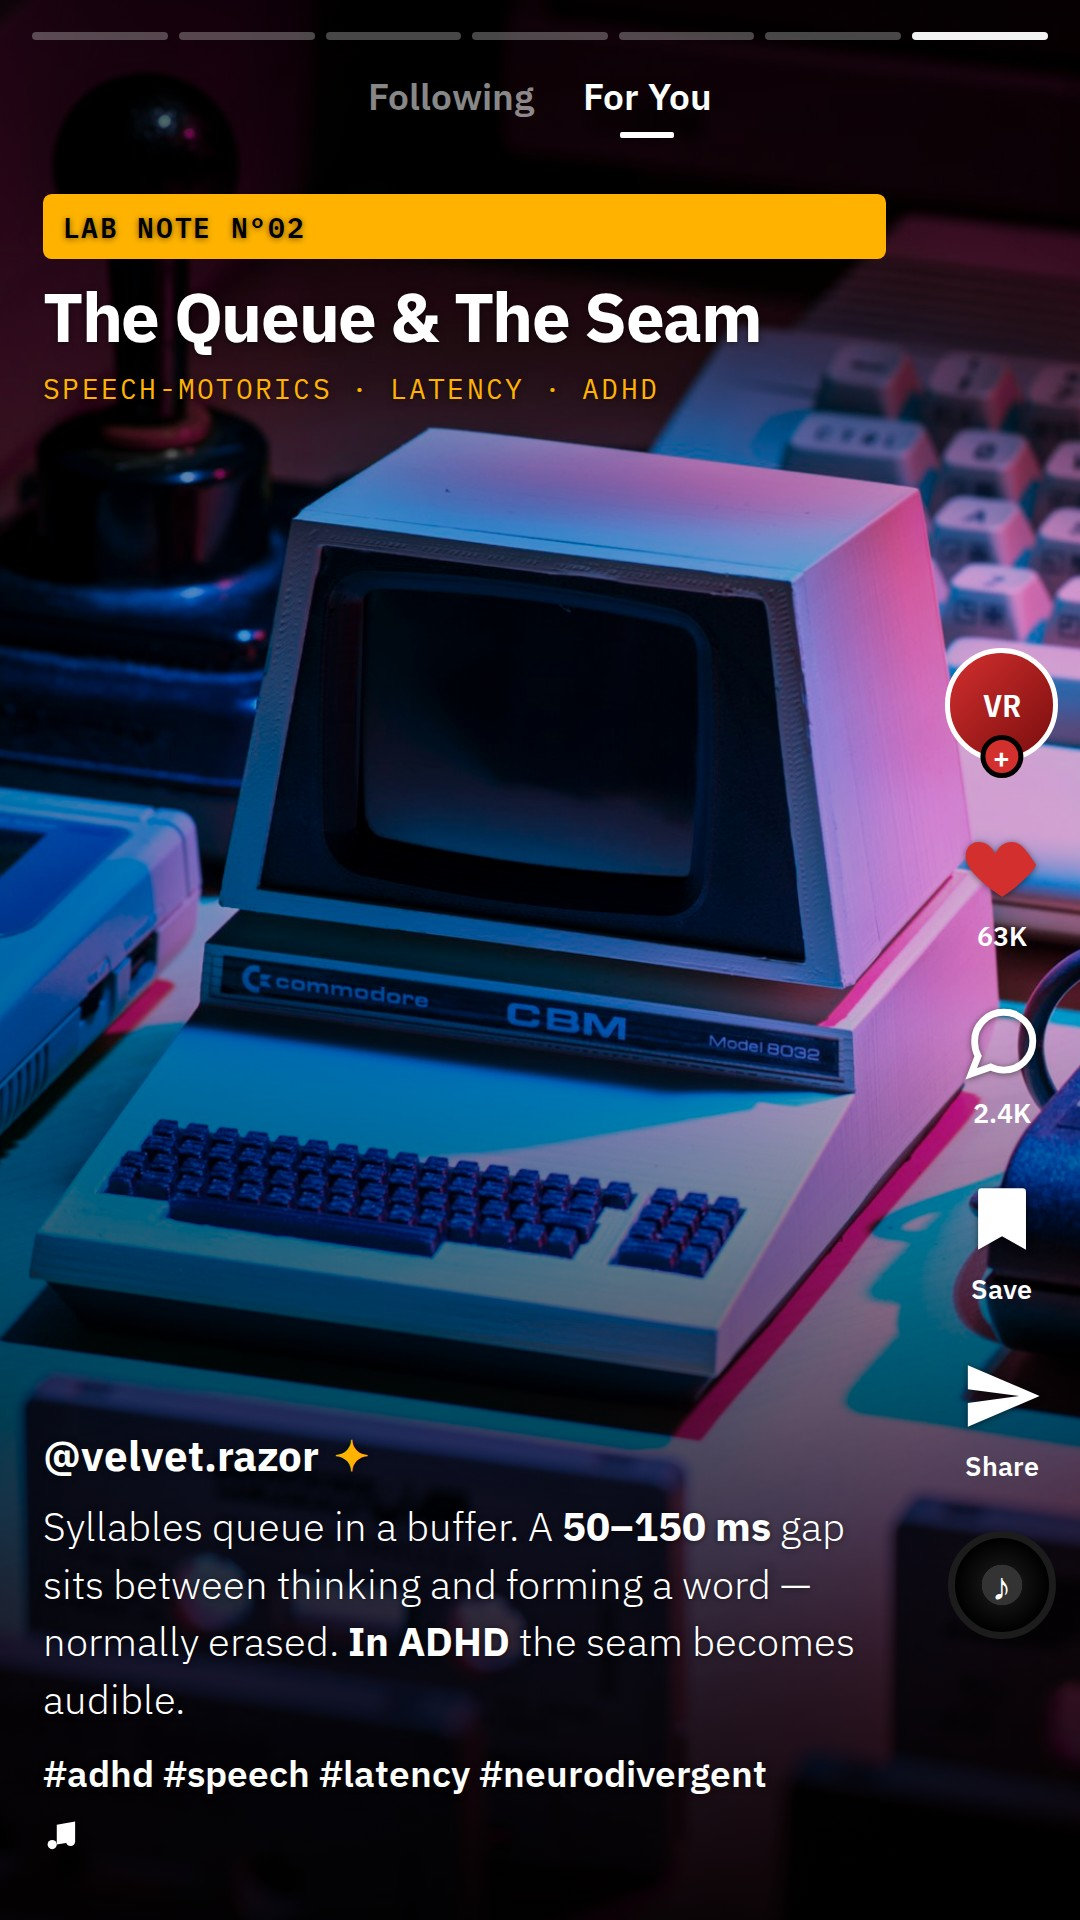
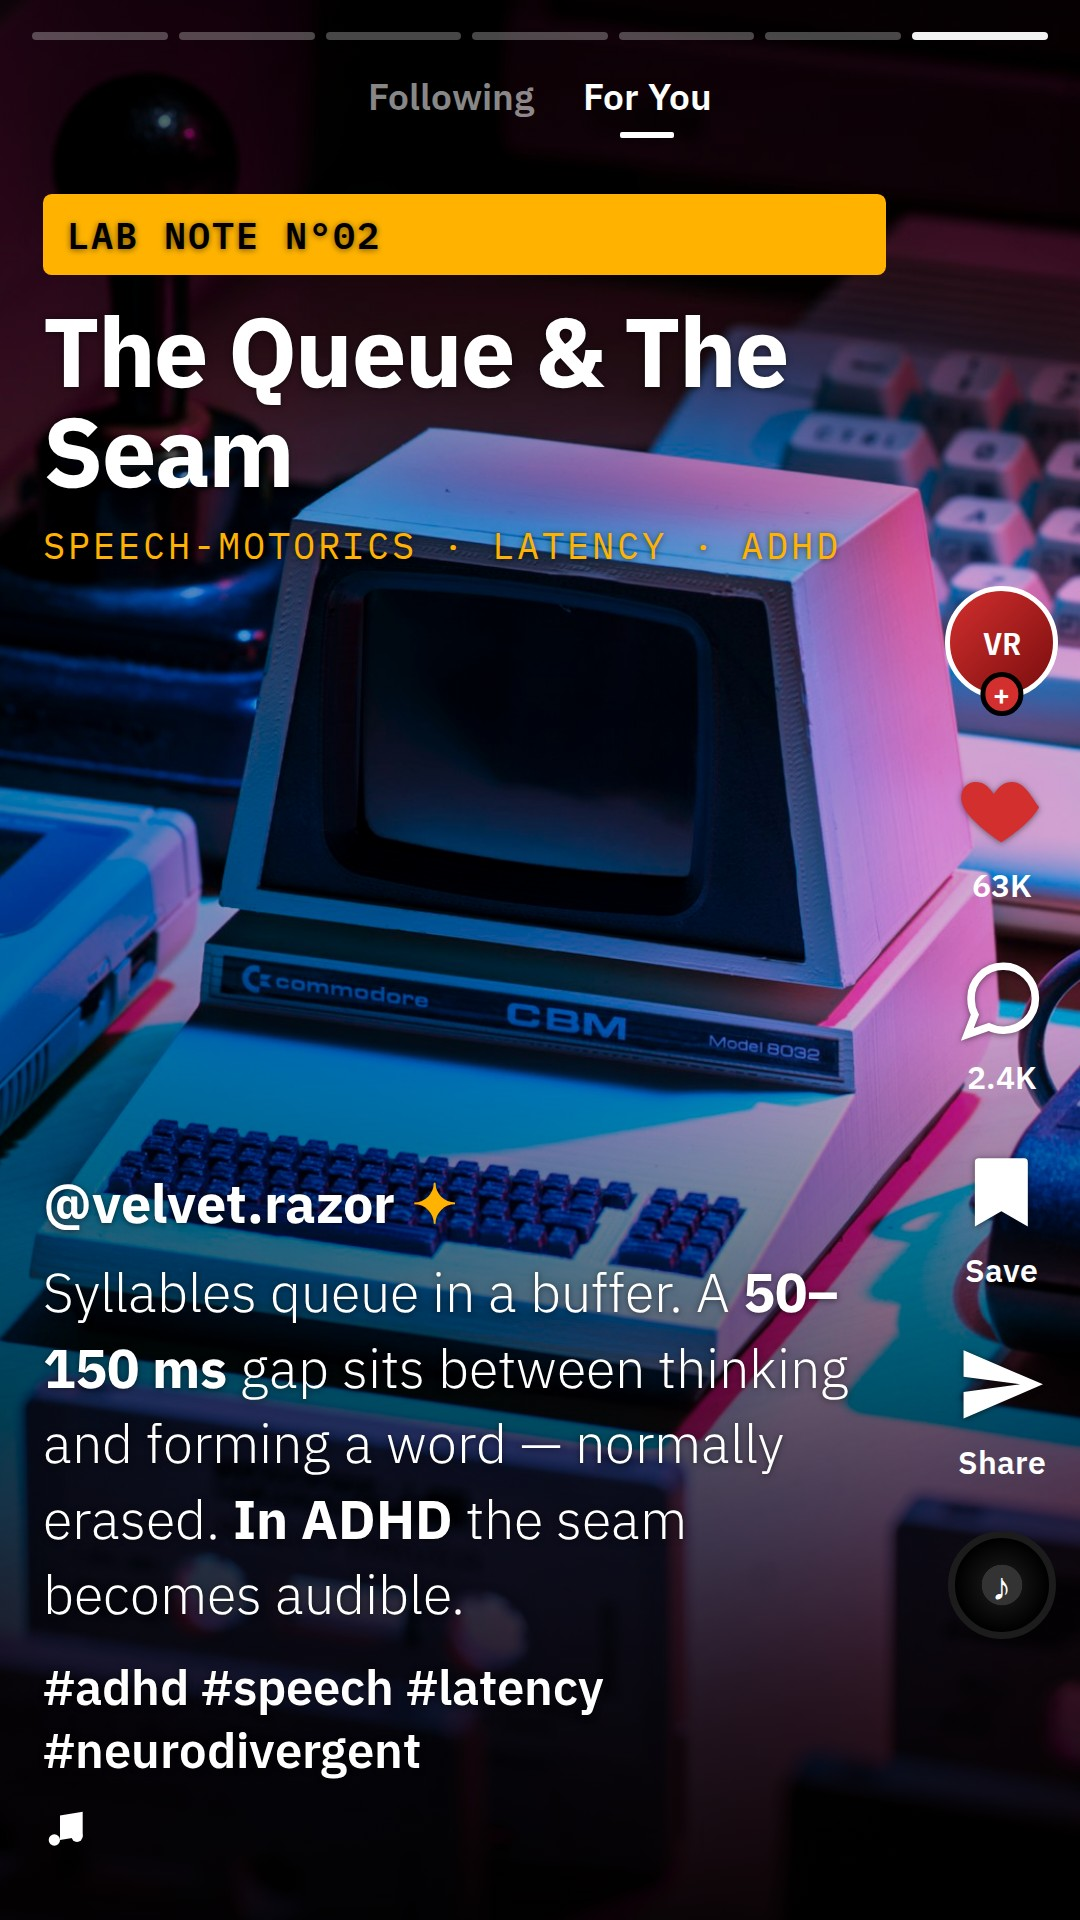
Make photo full-bleed background and enlarge slide typography
Remove the desktop phone-card chrome (border-radius/shadow/440px frame) so
each slide fills the viewport with the photo as a true full-screen
background, and increase the caption type scale (title, desc, tags, etc.)
so text reads large in both the browser and the 1080x1920 JPEG export.

Claude-Session: https://claude.ai/code/session_017Q2y2vkwAyKhxds5gc3Pqh

diff --git a/index.html b/index.html
@@ -40,31 +40,17 @@
             overflow: hidden;
         }
 
-        /* Phone frame on desktop; full screen on mobile */
+        /* Full-bleed: the photo IS the background. Portrait 9:16 fills the screen
+           height and is centred; no card frame, no shadow. */
         .phone {
             position: relative;
-            width: var(--frame-w);
-            height: min(95vh, calc(var(--frame-w) * 16 / 9));
-            max-height: 95vh;
+            height: 100dvh;
             aspect-ratio: 9 / 16;
+            max-width: 100vw;
             background: #000;
             overflow: hidden;
-            border-radius: 28px;
-            box-shadow: 0 0 0 10px #161616, 0 30px 80px rgba(0,0,0,0.8);
-            /* Size container: typography uses cqw so it scales identically in the
-               440px desktop frame and the 1080px JPEG export. */
+            /* Size container: typography uses cqw so it scales with the frame. */
             container-type: inline-size;
-        }
-
-        @media (max-width: 480px) {
-            .phone {
-                width: 100vw;
-                height: 100vh;
-                max-height: none;
-                aspect-ratio: auto;
-                border-radius: 0;
-                box-shadow: none;
-            }
         }
 
         /* Render mode (used by render.js): fill the 1080x1920 viewport exactly */
@@ -72,10 +58,7 @@
         body.render-mode .phone {
             width: 100vw;
             height: 100vh;
-            max-height: none;
             aspect-ratio: auto;
-            border-radius: 0;
-            box-shadow: none;
         }
 
         /* --- SCROLL DECK --- */
@@ -187,8 +170,8 @@
             gap: 1cqw;
             color: #fff;
         }
-        .rail__btn svg { width: 7.6cqw; height: 7.6cqw; filter: drop-shadow(0 1px 3px rgba(0,0,0,0.5)); }
-        .rail__btn span { font-size: 2.5cqw; font-weight: 600; }
+        .rail__btn svg { width: 8.4cqw; height: 8.4cqw; filter: drop-shadow(0 1px 3px rgba(0,0,0,0.5)); }
+        .rail__btn span { font-size: 3cqw; font-weight: 600; }
 
         .rail__avatar {
             position: relative;
@@ -239,12 +222,12 @@
         .badge {
             display: inline-block;
             font-family: var(--font-mono);
-            font-size: 2.6cqw;
+            font-size: 3.4cqw;
             font-weight: 600;
             letter-spacing: 0.06em;
             text-transform: uppercase;
-            padding: 0.9cqw 1.8cqw;
-            margin-bottom: 2cqw;
+            padding: 1.1cqw 2.2cqw;
+            margin-bottom: 2.4cqw;
             background: #fff; color: #000;
             border-radius: 0.8cqw;
         }
@@ -253,52 +236,52 @@
 
         .handle {
             font-weight: 700;
-            font-size: 3.9cqw;
-            margin-bottom: 1.4cqw;
-            display: flex; align-items: center; gap: 1.4cqw;
+            font-size: 5cqw;
+            margin-bottom: 1.6cqw;
+            display: flex; align-items: center; gap: 1.6cqw;
         }
         .handle .verified { color: var(--alert-gold); }
 
         .title {
-            font-size: 6.4cqw;
+            font-size: 9cqw;
             font-weight: 700;
-            line-height: 1.05;
+            line-height: 1.03;
             letter-spacing: -0.02em;
-            margin-bottom: 1.6cqw;
+            margin-bottom: 1.8cqw;
         }
         .slide.core .title { color: #ff5a5a; }
 
         .sub {
             font-family: var(--font-mono);
-            font-size: 2.6cqw;
+            font-size: 3.4cqw;
             text-transform: uppercase;
             letter-spacing: 0.08em;
             color: var(--alert-gold);
-            margin-bottom: 1.8cqw;
+            margin-bottom: 2cqw;
         }
 
         .desc {
-            font-size: 3.7cqw;
+            font-size: 5cqw;
             font-weight: 300;
-            line-height: 1.45;
+            line-height: 1.4;
             color: var(--text-main);
-            margin-bottom: 1.8cqw;
+            margin-bottom: 2cqw;
         }
         .desc strong { font-weight: 700; }
 
         .tags {
-            font-size: 3.4cqw;
+            font-size: 4.5cqw;
             font-weight: 600;
             color: #fff;
-            margin-bottom: 1.8cqw;
+            margin-bottom: 2cqw;
         }
 
         .music {
-            display: flex; align-items: center; gap: 1.8cqw;
-            font-size: 2.8cqw; font-weight: 500;
+            display: flex; align-items: center; gap: 2cqw;
+            font-size: 3.8cqw; font-weight: 500;
             color: var(--text-main);
         }
-        .music svg { width: 3.4cqw; height: 3.4cqw; }
+        .music svg { width: 4.2cqw; height: 4.2cqw; }
         .music .ticker {
             overflow: hidden; white-space: nowrap; max-width: 55cqw;
         }
@@ -317,7 +300,7 @@
             display: flex; flex-direction: column; align-items: center; gap: 0.5cqw;
             color: rgba(255,255,255,0.85);
             font-family: var(--font-mono);
-            font-size: 2.4cqw;
+            font-size: 3cqw;
             letter-spacing: 0.12em;
             text-transform: uppercase;
             animation: bob 1.6s ease-in-out infinite;
